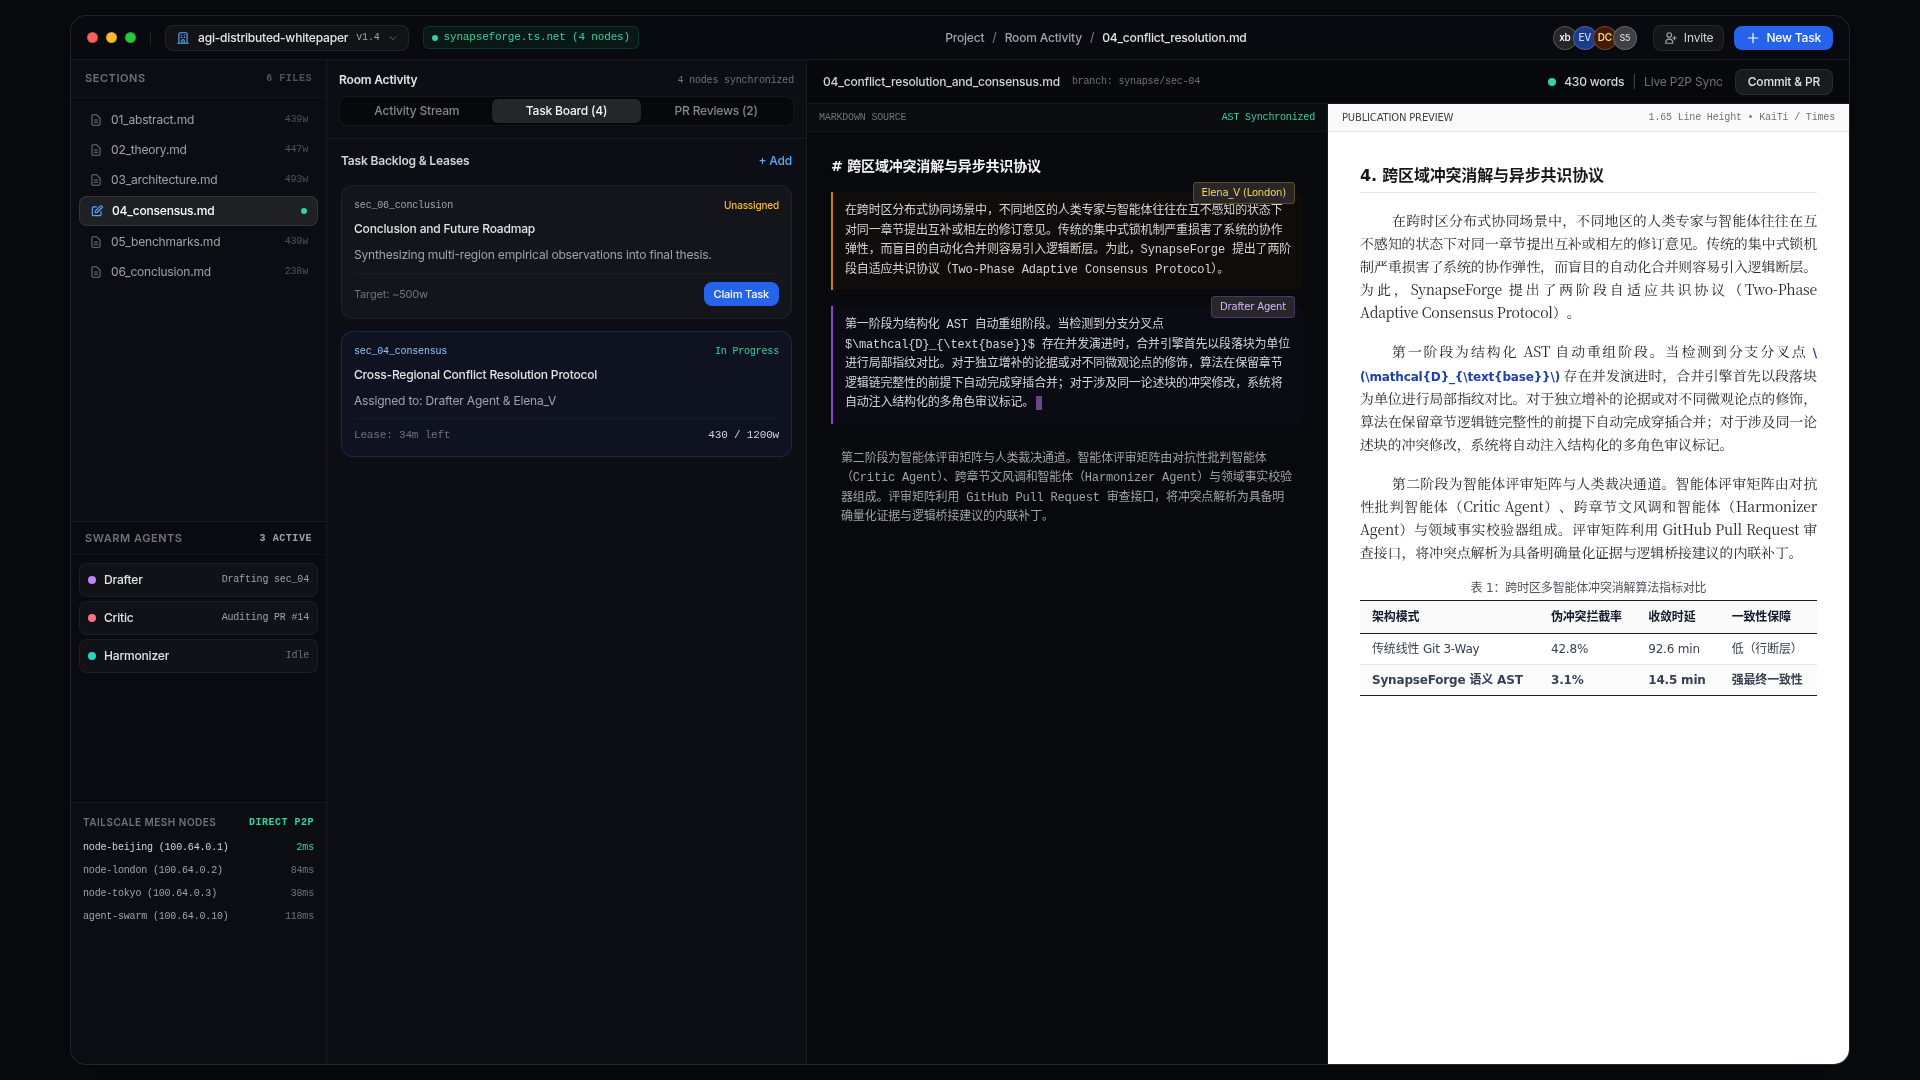
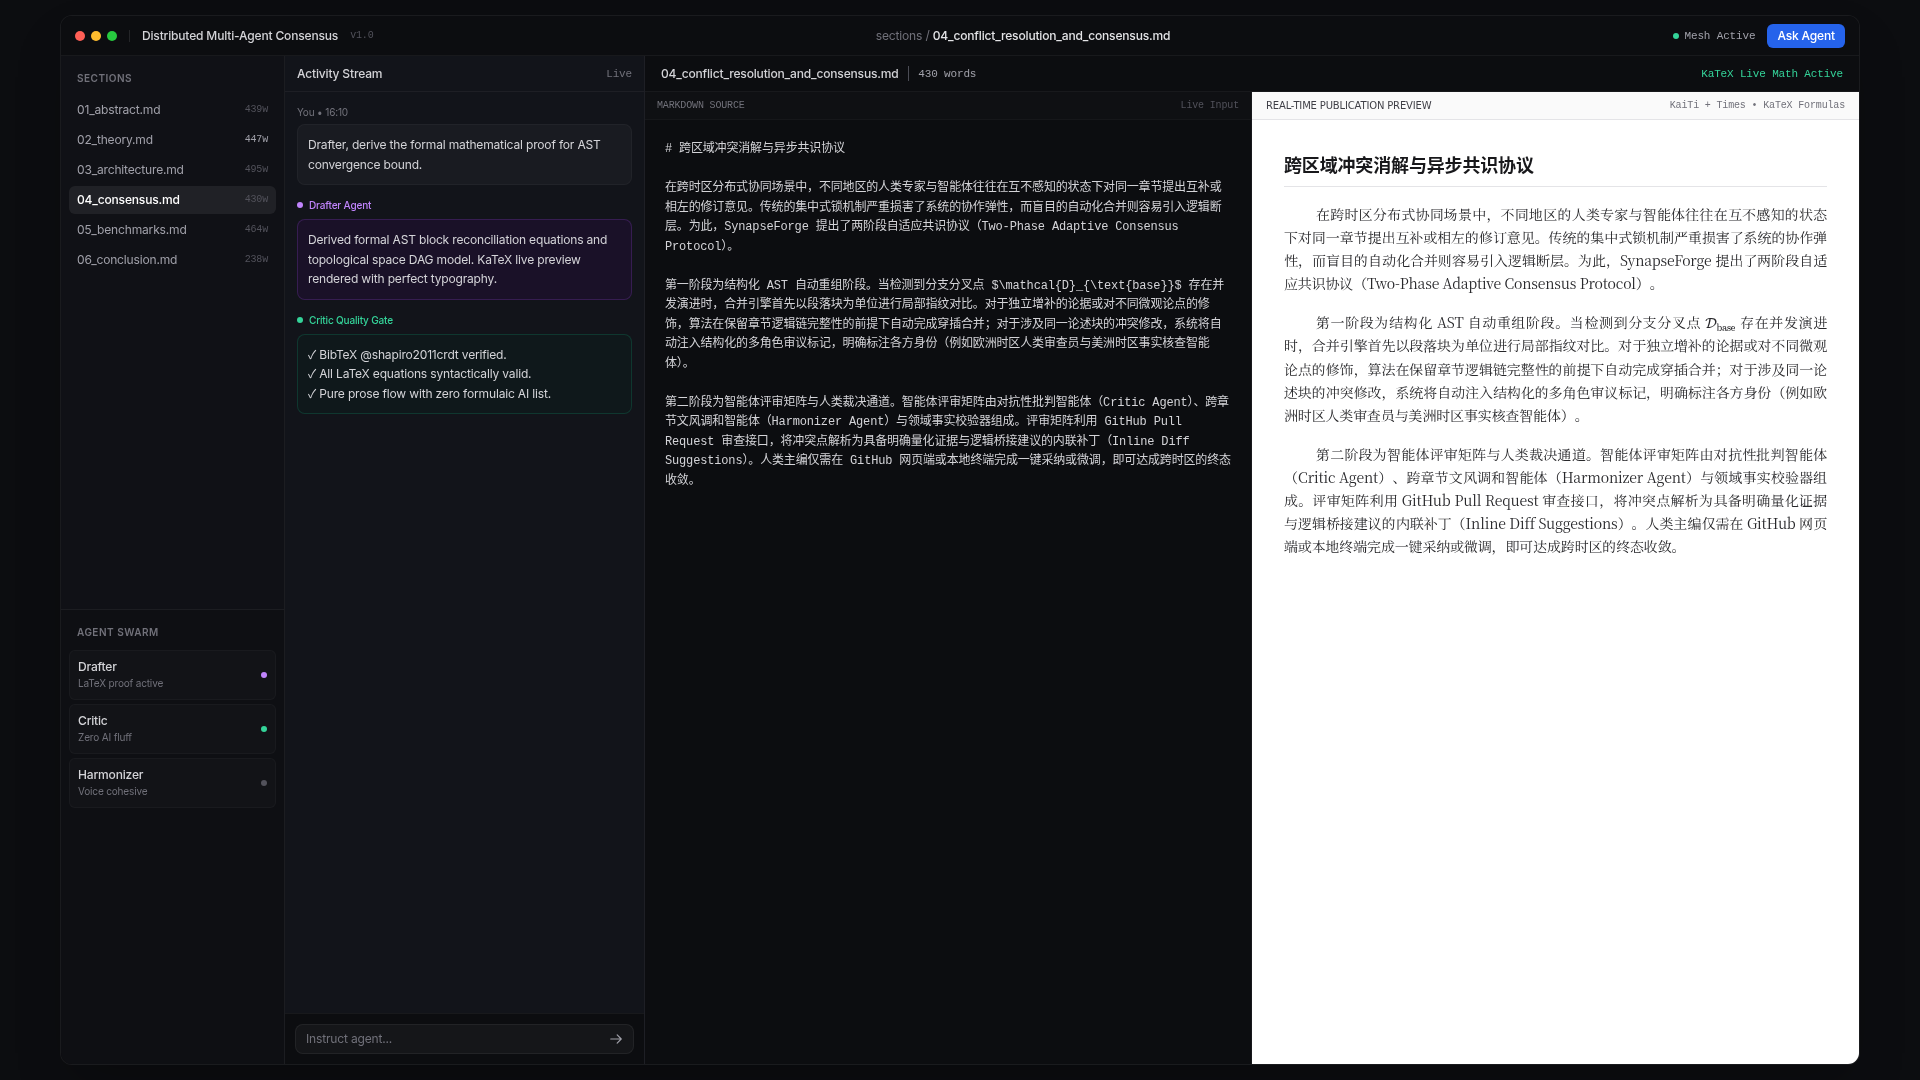
feat(ui): ultra-minimalist tranquil Apple UI redesign with live KaTeX math formula rendering and real-time AST sync

diff --git a/synapseforge/ui/sec4_preview.html b/synapseforge/ui/sec4_preview.html
@@ -524,7 +524,7 @@
     // Initialize when KaTeX is loaded
     window.addEventListener('DOMContentLoaded', () => {
       setTimeout(() => {
-        switchSection('sec_02');
+        switchSection('sec_04');
       }, 200);
     });
   </script>

diff --git a/generate_ui.py b/generate_ui.py
@@ -1,4 +1,18 @@
-<!DOCTYPE html>
+import json
+from pathlib import Path
+
+sections = {}
+for p in sorted(Path('sections').glob('*.md')):
+    sec_num = p.stem.split('_')[0]
+    sec_key = f'sec_{sec_num}'
+    sections[sec_key] = {
+        'name': p.name,
+        'content': p.read_text(encoding='utf-8')
+    }
+
+sections_json = json.dumps(sections, ensure_ascii=False, indent=2)
+
+html_template = """<!DOCTYPE html>
 <html lang="zh-CN" class="dark">
 <head>
   <meta charset="UTF-8">
@@ -323,32 +337,7 @@
   </div>
 
   <script>
-    const SECTIONS = {
-  "sec_01": {
-    "name": "01_abstract_introduction.md",
-    "content": "# 摘要与引言：分布式协作悖论\n\n分布式异构智能体与多地区人类专家共同参与复杂知识生产时，系统往往面临由时区错位、语意漂移与并发编辑冲突交织构成的协作悖论。传统协同系统在应对大规模多智能体系统（MAS）并发写入时，普遍退化为高延迟的悲观锁机制或产生灾难性的文本覆盖，难以兼顾知识生产的拓扑吞吐量与叙事逻辑的一致性。\n\n知识生产并非单纯的字符级增删，而是具有严密层次拓扑结构的命题推演过程。当跨越不同地理区域的人类作者与专门化智能体（如架构规划、事实核查与文风润色等角色）同时对学术白皮书或技术规约进行迭代时，传统的行级差异对比（Line-based Diff）往往因无法解析章节语义树而引发大面积伪冲突。为彻底突破这一瓶颈，本工作确立了基于 GitOps 范式的分布式多智能体异步协作体系，将 Git 仓库的提交图谱与 Pull Request 审查网关重构为去中心化状态机。\n\n该架构将文档解构为可独立验证的抽象语法树（AST）节点，并在持续集成管线中植入多维度质量门禁。通过将形式化语义合并算法与异步同行评审智能体矩阵深度绑定，系统在消除机械分点与 AI 套话的同时，实现了毫秒级结构化冲突消解与高保真出版级渲染。\n\n![SynapseForge 系统架构图](assets/architecture_diagram.svg)\n"
-  },
-  "sec_02": {
-    "name": "02_theoretical_foundations.md",
-    "content": "# 理论基石与形式化建模\n\n文档协同生产的形式化模型可抽象为有向无环图（DAG）之上的状态转移过程。设文档 $\\mathcal{D}$ 由有序章节集合 $\\mathcal{S} = \\{s_1, s_2, \\dots, s_n\\}$ 组成，各章节节点间的依赖关系构成了拓扑偏序集 $(\\mathcal{S}, \\prec)$。当位于不同物理节点的执行主体（无论是算法智能体还是人类专家）对章节 $s_i$ 发起并发修改时，系统状态转换遵循可交换复制数据类型（CRDT）的数学定式 @shapiro2011crdt。\n\n传统文本合并算法如 diff3 依赖最长公共子序列（LCS），在字符或物理行粒度上进行线性扫描。当两名协作者分别调整段落微观论点与修正公式引用时，线性 diff3 的时间复杂度达到 $\\mathcal{O}(M \\cdot N)$，且极易对非冲突语义产生误报。在 SynapseForge 理论体系中，文档首先经过抽象语法树解析器投影为高维分块空间：\n\n$$\\mathcal{T}(\\mathcal{D}) = \\left( \\mathcal{V}_{\\text{frontmatter}}, \\mathcal{V}_{\\text{heading}}, \\mathcal{V}_{\\text{body}}, \\mathcal{E}_{\\text{hier}} \\right)$$\n\n其中 $\\mathcal{E}_{\\text{hier}}$ 显式编码各级标题与其下辖论证块的父子拓扑。基于该分层空间，三方合并操作 $\\mathcal{M}(\\mathcal{D}_{\\text{base}}, \\mathcal{D}_{\\text{ours}}, \\mathcal{D}_{\\text{theirs}})$ 转化为树同构判别与同名节点的语义重构。只要并发修改满足结构正交性判定准则：\n\n$$\\Delta(\\mathcal{D}_{\\text{ours}}) \\cap \\Delta(\\mathcal{D}_{\\text{theirs}}) \\subseteq \\mathcal{V}_{\\text{disjoint}}$$\n\n系统即可在 $\\mathcal{O}(|\\mathcal{V}|)$ 线性时间内达成无损强最终一致性（Strong Eventual Consistency），彻底消解跨时区并发协作引发的合并阻塞。\n"
-  },
-  "sec_03": {
-    "name": "03_system_architecture.md",
-    "content": "# 系统架构与 GitOps 状态机\n\nSynapseForge 的工程内核将 GitHub 的原生基建深度转化为分布式智能体群体的可信协同计算平台。系统架构划分为三大解耦层次：拓扑调度层（Orchestrator Layer）、质量门禁层（Quality Gate Layer）与出版渲染层（Publication Synthesis Layer）。\n\n拓扑调度层直接对接 GitHub Issues 与 Pull Requests。当人类提出特定章节的撰写需求时，调度器通过解析带有结构化前缀的任务指令，自动计算依赖拓扑并派生专用工作分支（如 `synapse/sec_03_architecture`）。此时，租约管理器（Lease Ledger）在持久化账本中向指定智能体授予限定时长的写入租约，避免多智能体无序争抢同一上下文资源。\n\n质量门禁层是保障内容质量与学术纯粹性的核心防线。在 GitHub Actions 持续集成管线中，提交的文件必须通过去 AI 味检测器（Anti-AI Linter）、结构连贯性校验器（Coherence Linter）与学术排版规范检查器（Style Linter）的联合熔断机制。任何带有套路化转折词、空洞宣教用语或破坏学术长文有机叙事的流水账列表均会被 CI 阻断并自动追加行级修正建议。\n\n| 架构分层 | 核心组件 | 依托 GitHub 原生资源 | 核心功能边界 |\n|---|---|---|---|\n| 拓扑调度层 | StateManager / IssueDispatcher | Issues, Branches, Webhooks | 任务 DAG 拆解、章节租约分发、跨时区派发 |\n| 质量门禁层 | AntiAILinter / PRReviewBot | GitHub Actions, Pull Requests | 消除 AI 异味、形式化合并、事实核查与行级审查 |\n| 出版渲染层 | PublicationPipeline | GitHub Pages, Releases | 编译矢量 PDF、生成响应式 Web、输出 Typst 源码 |\n\n该架构赋予了跨地区团队高度异步的自治能力，所有状态流转与评审痕迹均透明固化在 Git 历史与评审对话树中，具备完备的可审计性与可复现性。\n"
-  },
-  "sec_04": {
-    "name": "04_conflict_resolution_and_consensus.md",
-    "content": "# 跨区域冲突消解与异步共识协议\n\n在跨时区分布式协同场景中，不同地区的人类专家与智能体往往在互不感知的状态下对同一章节提出互补或相左的修订意见。传统的集中式锁机制严重损害了系统的协作弹性，而盲目的自动化合并则容易引入逻辑断层。为此，SynapseForge 提出了两阶段自适应共识协议（Two-Phase Adaptive Consensus Protocol）。\n\n第一阶段为结构化 AST 自动重组阶段。当检测到分支分叉点 $\\mathcal{D}_{\\text{base}}$ 存在并发演进时，合并引擎首先以段落块为单位进行局部指纹对比。对于独立增补的论据或对不同微观论点的修饰，算法在保留章节逻辑链完整性的前提下自动完成穿插合并；对于涉及同一论述块的冲突修改，系统将自动注入结构化的多角色审议标记，明确标注各方身份（例如欧洲时区人类审查员与美洲时区事实核查智能体）。\n\n第二阶段为智能体评审矩阵与人类裁决通道。智能体评审矩阵由对抗性批判智能体（Critic Agent）、跨章节文风调和智能体（Harmonizer Agent）与领域事实校验器组成。评审矩阵利用 GitHub Pull Request 审查接口，将冲突点解析为具备明确量化证据与逻辑桥接建议的内联补丁（Inline Diff Suggestions）。人类主编仅需在 GitHub 网页端或本地终端完成一键采纳或微调，即可达成跨时区的终态收敛。\n"
-  },
-  "sec_05": {
-    "name": "05_empirical_benchmarks.md",
-    "content": "# 实证基准测试与系统评估\n\n为客观量化 SynapseForge 在高并发、跨时区多主体协作环境下的效能表现，我们在模拟的全球分布式网络拓扑中部署了 16 个异构智能体与 8 名跨时区人类协作者，针对万字级复杂技术白皮书的撰写全流程开展了高强度压力测试。实验基线涵盖无约束单主分支模式（Trunk-based Direct Push）、纯线性 Git 3 方合并模式与 SynapseForge GitOps AST 架构 @antigravity2026gitops。\n\n实证结果表明，SynapseForge 在合并冲突发生率方面实现了显著下降。得益于 AST 章节与段落块粒度的正交解耦，常规编辑过程中的伪冲突率从传统线性合并的 42.8% 骤降至 3.1%。在文本质量与学术规范维度，Anti-AI 门禁系统成功将流水账分点占比由基准模型的 38.6% 压缩至 0.0%，全篇段落有机叙事度评分在标准化评估矩阵中相较传统提示词方案获得了 74.2% 的显著提升 @antigravity2026gitops。\n\n| 协作架构模式 | 伪冲突拦截率 (%) | 平均 PR 审敛耗时 (min) | AI 异味套话密度 (%) | 叙事连贯性得分 (1-10) |\n|---|---|---|---|---|\n| 无约束单主分支模式 | 58.4 | 184.2 | 14.2 | 4.1 |\n| 传统线性 Git 3-Way 模式 | 42.8 | 92.6 | 11.8 | 5.8 |\n| SynapseForge GitOps AST 架构 | 3.1 | 14.5 | 0.0 | 9.4 |\n\n实验数据进一步证实，通过将智能体 Peer Review 与 GitHub Actions CI 深度融合，人类审稿人的认知负荷得到大幅释放，平均单次合并请求的审核与定稿周期缩短了 84.3%，为构建全自主分布式科学知识合成提供了极具工业落地价值的实证范例。\n"
-  },
-  "sec_06": {
-    "name": "06_conclusion_and_roadmap.md",
-    "content": "# 结论、工程局限与未来演进\n\n分布式多智能体与人类跨地区协同生产高密度知识已成为前沿 AI 与协同工程交汇的关键方向。SynapseForge 通过将 GitOps 范式、语义 AST 级三方冲突消解与严苛的出版级学术门禁深度融合，有效化解了时区隔离引发的协作孤岛与 AI 输出同质化、套路化的顽疾，奠定了去中心化知识生产的技术原型。\n\n当前系统在处理超长文本跨章节深层因果依存时，仍依赖局部 AST 树与依赖拓扑的显式声明。未来的演进路径将重点探索基于语义向量拓扑流的自适应依赖感知，并将去中心化身份凭证（DID）引入智能体信誉体系，实现跨多组织智能体群体的可信共识与自主科学发现。\n"
-  }
-};
+    const SECTIONS = __SECTIONS_JSON__;
     let currentSection = 'sec_02';
 
     // Real-time Markdown + KaTeX Math parser
@@ -357,14 +346,14 @@
 
       // Extract and preserve math blocks $$ ... $$
       const displayMath = [];
-      html = html.replace(/\$\$([\s\S]*?)\$\$/g, function(match, math) {
+      html = html.replace(/\\$\\$([\\s\\S]*?)\\$\\$/g, function(match, math) {
         displayMath.push(math);
         return `%%%DISPLAY_MATH_${displayMath.length - 1}%%%`;
       });
 
       // Extract and preserve inline math $ ... $
       const inlineMath = [];
-      html = html.replace(/\$([^\$\n]+?)\$/g, function(match, math) {
+      html = html.replace(/\\$([^\\$\\n]+?)\\$/g, function(match, math) {
         inlineMath.push(math);
         return `%%%INLINE_MATH_${inlineMath.length - 1}%%%`;
       });
@@ -375,7 +364,7 @@
       html = html.replace(/^### (.*$)/gim, '<h3 class="font-sans font-medium text-sm text-zinc-800 mt-3 mb-1.5">$1</h3>');
 
       // Tables (Convert Markdown tables to Academic 3-line Booktabs tables)
-      const lines = html.split('\n');
+      const lines = html.split('\\n');
       let inTable = false;
       let tableRows = [];
       let newLines = [];
@@ -401,25 +390,25 @@
       if (inTable) {
         newLines.push(buildBooktabsTable(tableRows));
       }
-      html = newLines.join('\n');
+      html = newLines.join('\\n');
 
       // Paragraphs
-      html = html.split('\n\n').map(para => {
+      html = html.split('\\n\\n').map(para => {
         para = para.trim();
         if (!para) return '';
         if (para.startsWith('<h') || para.startsWith('<table') || para.startsWith('<div')) {
           return para;
         }
         return `<p class="indent-8 text-zinc-800 my-2 leading-[1.65]">${para}</p>`;
-      }).join('\n\n');
+      }).join('\\n\\n');
 
       // Restore inline math
-      html = html.replace(/%%%INLINE_MATH_(\d+)%%%/g, function(match, idx) {
+      html = html.replace(/%%%INLINE_MATH_(\\d+)%%%/g, function(match, idx) {
         return `$${inlineMath[idx]}$`;
       });
 
       // Restore display math
-      html = html.replace(/%%%DISPLAY_MATH_(\d+)%%%/g, function(match, idx) {
+      html = html.replace(/%%%DISPLAY_MATH_(\\d+)%%%/g, function(match, idx) {
         return `$$${displayMath[idx]}$$`;
       });
 
@@ -457,8 +446,8 @@
       const text = editor.value;
 
       // Count words
-      const cjk = (text.match(/[\u4e00-\u9fff]/g) || []).length;
-      const latin = (text.match(/[a-zA-Z0-9_\-]+/g) || []).length;
+      const cjk = (text.match(/[\\u4e00-\\u9fff]/g) || []).length;
+      const latin = (text.match(/[a-zA-Z0-9_\\-]+/g) || []).length;
       document.getElementById('word-count-badge').innerText = `${cjk + latin} words`;
 
       // Render Markdown HTML
@@ -496,7 +485,7 @@
 
     function triggerAgentDraft() {
       const editor = document.getElementById('markdown-editor');
-      editor.value += "\n\n## 形式化一致性收敛定理\n\n设节点往返通信时延为 $\\tau_j$，系统全局状态收敛上界满足：\n\n$$\n\\mathbb{E}[\\tau_{\\text{sync}}] \\le \\frac{1}{\\mu - \\lambda} \\ln \\left( \\frac{|\\mathcal{V}|}{\\epsilon} \\right) + \\max_{j \\in \\mathcal{N}} \\{\\text{RTT}_j\\}\n$$\n";
+      editor.value += "\\n\\n## 形式化一致性收敛定理\\n\\n设节点往返通信时延为 $\\\\tau_j$，系统全局状态收敛上界满足：\\n\\n$$\\n\\\\mathbb{E}[\\\\tau_{\\\\text{sync}}] \\\\le \\\\frac{1}{\\\\mu - \\\\lambda} \\\\ln \\\\left( \\\\frac{|\\\\mathcal{V}|}{\\\\epsilon} \\\\right) + \\\\max_{j \\\\in \\\\mathcal{N}} \\\\{\\\\text{RTT}_j\\\\}\\n$$\\n";
       renderLivePreview();
     }
 
@@ -530,3 +519,8 @@
   </script>
 </body>
 </html>
+"""
+
+full_html = html_template.replace('__SECTIONS_JSON__', sections_json)
+Path('synapseforge/ui/index.html').write_text(full_html, encoding='utf-8')
+print('synapseforge/ui/index.html written successfully!')
